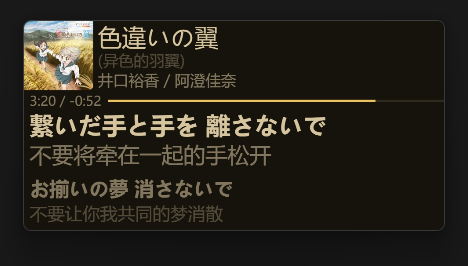
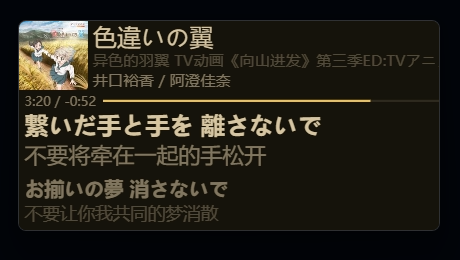
v0.2.1 更新

Changed region(s): [[0.0304, 0.0615, 0.9739, 0.8923]]

diff --git a/main.js b/main.js
@@ -4,7 +4,7 @@ let rvN, v, c, cover, cvUrlCache, accentC, textC, textCT13, textCT31, textCT56, 
 , pO = `<path d="${pdd}M20 15H14V19H20V15ZM6.70711 6.29289L8.95689 8.54289L11 6.5V12H5.5L7.54289 9.95689L5.29289 7.70711L6.70711 6.29289Z"></path>`
 , pC = `<path d="${pdd}"></path>`
 , readCfg = JSON.parse(localStorage.getItem("PiPWindowSettings"))
-, cfgDefault = ({whenClose: "none", whenBack: "back", autoHideMainWindow: false, customFonts: "\"Microsoft Yahei UI\", system-ui", showAlbum: true, moreRedraws: false, resolutionRatio: "auto"})
+, cfgDefault = ({whenClose: "none", whenBack: "back", autoHideMainWindow: false, customFonts: "\"Microsoft Yahei UI\", system-ui", showAlbum: true, moreRedraws: false, resolutionRatio: "auto", aspectRatio: "2:1"})
 readCfg = {...cfgDefault, ...readCfg} //缺失配置啥的处理一下
 window.PiPWShowRefrshing = (x=true)=>{if(x==true){showRefrshing=true;return true}else if(x==false){showRefrshing=false;return false}}
 function cE(n, d=document) {return d.createElement(n)}
@@ -59,9 +59,11 @@ HTMLCanvasElement.prototype.toPiP = function(){
                 v.addEventListener("pause", ()=>{ncmPause()})
                 //小窗打开/关闭逻辑
                 v.addEventListener("enterpictureinpicture", ()=>{ console.log("PiPW Log: PiP窗口已创建", v)
+                    let s = betterncm.ncm.getPlayingSong()
+                    if (!s) {s=({state:1})}
                     if (readCfg.autoHideMainWindow) {mwf.cef.R$call("winhelper.showWindow", "hide")}
                     tipMsg("已打开小窗"); q("#PiPW-Toggle svg").innerHTML=pC; q("#PiPW-Toggle").setAttribute("style", "fill: currentColor; opacity: 1");
-                    if (player.playState=="stop"&&!q(".m-player:not(#main-player):not(.f-dn)")) {v.pause()} DontPlay=false
+                    if (s.state==1) {v.pause()} DontPlay=false
                 });
                 v.addEventListener("leavepictureinpicture", ()=>{ DontPause=true; let p = v.paused
                     tipMsg("已关闭小窗"); q("#PiPW-Toggle svg").innerHTML=pO; q("#PiPW-Toggle").setAttribute("style", "");
@@ -281,17 +283,21 @@ async function loadPiP(isToPiP=true, from="unknow") {
         if (colorPick()=="reCv") {reloadCover();}
     
         /*创建canvas*/
-        if (!c) {
-            c = cE("canvas");
-            console.log("PiPW Log: canvas元素已创建", c);
-        }
-        if (c.height != r || c.width != r*2) {
-            c.height = r; c.width = r*2; reloadCover()
-        }
-        if (isToPiP && !PiPE) {
-            DontPlay=true; //解决打开小窗时自动播放的问题
-            c.toPiP();
-            reloadCover()
+        loadC()
+        function loadC() {
+            let [w, h] = readCfg.aspectRatio.split(":").map(Number), rw = Math.round(r*(w/h)) //因为width不能设为小数
+            if (!c) {
+                c = cE("canvas");
+                console.log("PiPW Log: canvas元素已创建", c);
+            }
+            if (c.width != rw || c.height != r) {
+                c.width = rw; c.height = r; reloadCover()
+            }
+            if (isToPiP && !PiPE) {
+                DontPlay=true; //解决打开小窗时自动播放的问题
+                c.toPiP();
+                reloadCover()
+            }
         }
     
         function reloadCover() {
@@ -406,14 +412,14 @@ async function loadPiP(isToPiP=true, from="unknow") {
         cC.fillStyle = accentC;
         cC.fillRect(pbMgL, pbMgT, (c.width-pbMgL)*tP, o5); /*进度条*/
     
-        if(showRefrshing){console.log(`PiPW Log: <canvas>重绘完成，当前分辨率${r}x${r*2}, 请求来自${from}`)}
+        if(showRefrshing){console.log(`PiPW Log: <canvas>重绘完成，当前分辨率${c.width}x${c.height}, 请求来自${from}`)}
     } catch (e) {
         console.error("PiPW Error: <canvas>绘制出错，详情：\n", e);tipMsg("&lt;canvas&gt;绘制出错，详见JavaScript控制台", "err")
     }
 }
 
 plugin.onAllPluginsLoaded(()=>{load()});
-function load() {A();B();C();D();E()
+function load() {A();B();C();D();E();F()
     if (readCfg.moreRedraws) {setInterval(()=>{loadPiP(false, "setInterval()")},100)}
     async function A() { //监听播放时长变动
         await betterncm.utils.waitForElement(".m-player time");
@@ -451,7 +457,25 @@ function load() {A();B();C();D();E()
             subtree: true,
         });
     }
-    async function D() { //向歌曲信息旁添加PiP开关
+    async function D() { //监听私人漫游暂停/开始播放变动
+        await betterncm.utils.waitForElement(".m-player-fm .btnp-play");
+        new MutationObserver(() => {
+            let PiPE = document.pictureInPictureElement, s = betterncm.ncm.getPlayingSong().state
+            if (PiPE&&PiPE.id=="PiPW-VideoE") {if (s==2) {PiPE.play()} else if (s==1) {PiPE.pause()}}
+        }).observe(q(".m-player-fm .btnp-play"), {attributeFilter: ["data-action"]})
+    }
+    async function E() { //监听颜色变动
+        let A = qAll("html, body");
+        for(i = 0; i < A.length; i++){
+            new MutationObserver(() => {
+                setTimeout(()=>{colorPick()}, 100)
+            }).observe(A[i], {
+                attributeFilter: ["style", "class"],
+                characterData: false,
+            });
+        };
+    }
+    async function F() { //向歌曲信息旁添加PiP开关
         await betterncm.utils.waitForElement(".m-pinfo h3");
         let b = cE("div");
         b.id = "PiPW-Toggle"; b.classList.add("icn", "f-cp");
@@ -467,17 +491,6 @@ function load() {A();B();C();D();E()
             childList: true,
             subtree: true,
         });
-    }
-    async function E() { //监听颜色变动
-        let A = qAll("html, body");
-        for(i = 0; i < A.length; i++){
-            new MutationObserver(() => {
-                setTimeout(()=>{colorPick()}, 100)
-            }).observe(A[i], {
-                attributeFilter: ["style", "class"],
-                characterData: false,
-            });
-        };
     }
 }
 
@@ -786,7 +799,7 @@ plugin.onConfig(()=>{
     }
 </style>
 <div class="part noAutoBr" style="margin-top: 0;">
-    <p class="partTitle">PiPWindow </p><p> 0.2.0</p>
+    <p class="partTitle">PiPWindow </p><p> 0.2.1</p>
     <br />
     <p>by </p>
     <input class="link" type="button" onclick="betterncm.ncm.openUrl('https://github.com/Lukoning')" value=" Lukoning " />
@@ -878,7 +891,38 @@ plugin.onConfig(()=>{
     </label>
     <p>缩短重绘间隔 (可能有性能损耗，重载生效)</p>
     <br />
-    <p>渲染分辨率 (宽高比2:1)</p>
+    <p>窗口宽高比</p>
+    <br />
+    <div class="item">
+        <label class="radio">
+            <input type="radio" name="aspectRatio" value="16:9" />
+            <span class="slider button"></span>
+        </label>
+        <p>16:9</p>
+    </div>
+    <div class="item">
+        <label class="radio">
+            <input type="radio" name="aspectRatio" value="2:1" />
+            <span class="slider button"></span>
+        </label>
+        <p>2:1</p>
+    </div>
+    <div class="item">
+        <label class="radio">
+            <input type="radio" name="aspectRatio" value="21:9" />
+            <span class="slider button"></span>
+        </label>
+        <p>21:9</p>
+    </div>
+    <div class="item">
+        <label class="radio">
+            <input type="radio" name="aspectRatio" value="3:1" />
+            <span class="slider button"></span>
+        </label>
+        <p>3:1</p>
+    </div>
+    <br />
+    <p>渲染分辨率</p>
     <br />
     <div class="item">
         <label class="radio">
@@ -927,7 +971,6 @@ plugin.onConfig(()=>{
     <p class="partTitle">关于此版本的一些说明</p><p> 烦死了烦死了</p>
     <br /><p>控制按钮在暂停时并不会显示，但是仍然可以空格播放和暂停</p>
     <br /><p>暂停时按下关闭按钮，其效果与返回按钮相同……根本没法区分这俩按钮啊啊啊啊！！</p>
-    <br /><p>私人漫游时在小窗外进行的暂停操作并不会被识别——播放操作也一样</p>
     <br />
     <br /><p>以及你有没有发现拖动/右边缘/下边缘调整大小后，下次打开小窗时并没有记住上次调整的大小……</p>
     <br /><p>可能有点抽象，但这会导致：选择自适应分辨率后，没法成功通过右/下边缘调整大小</p>
